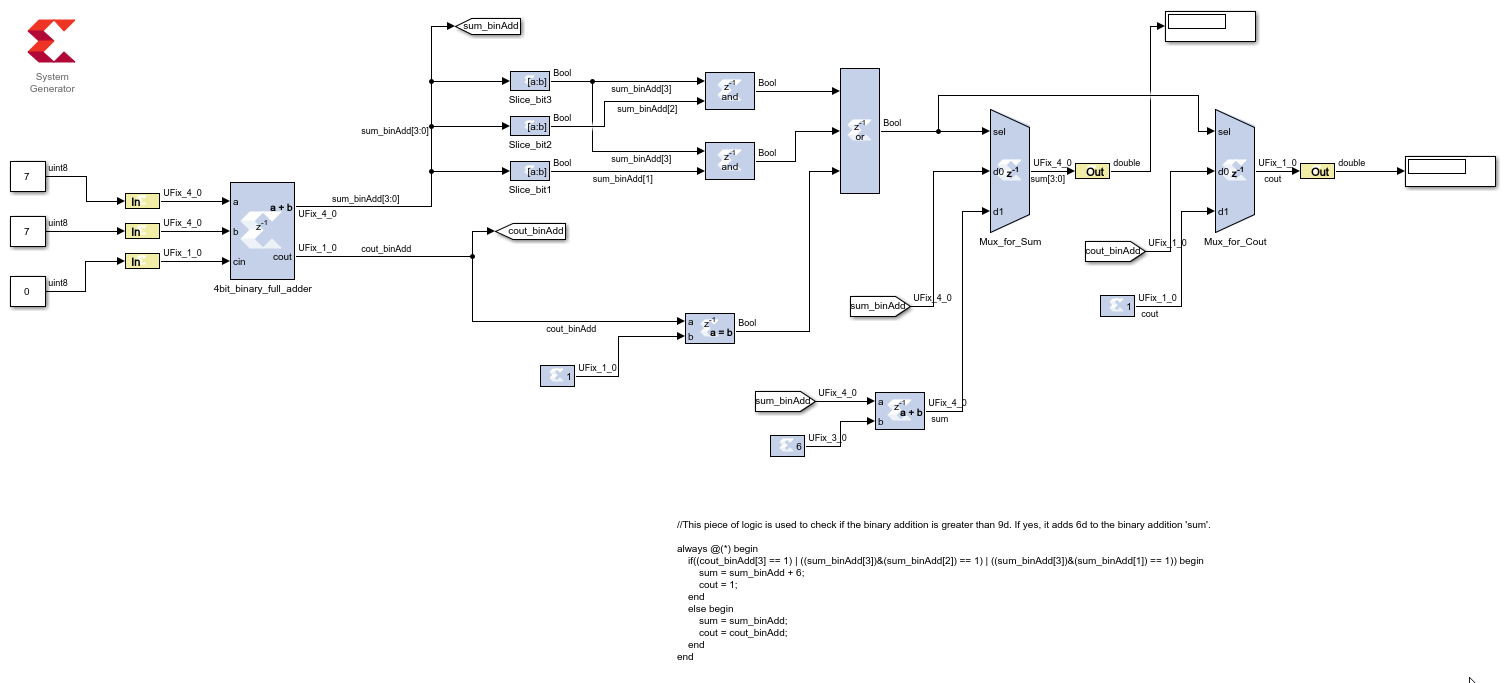
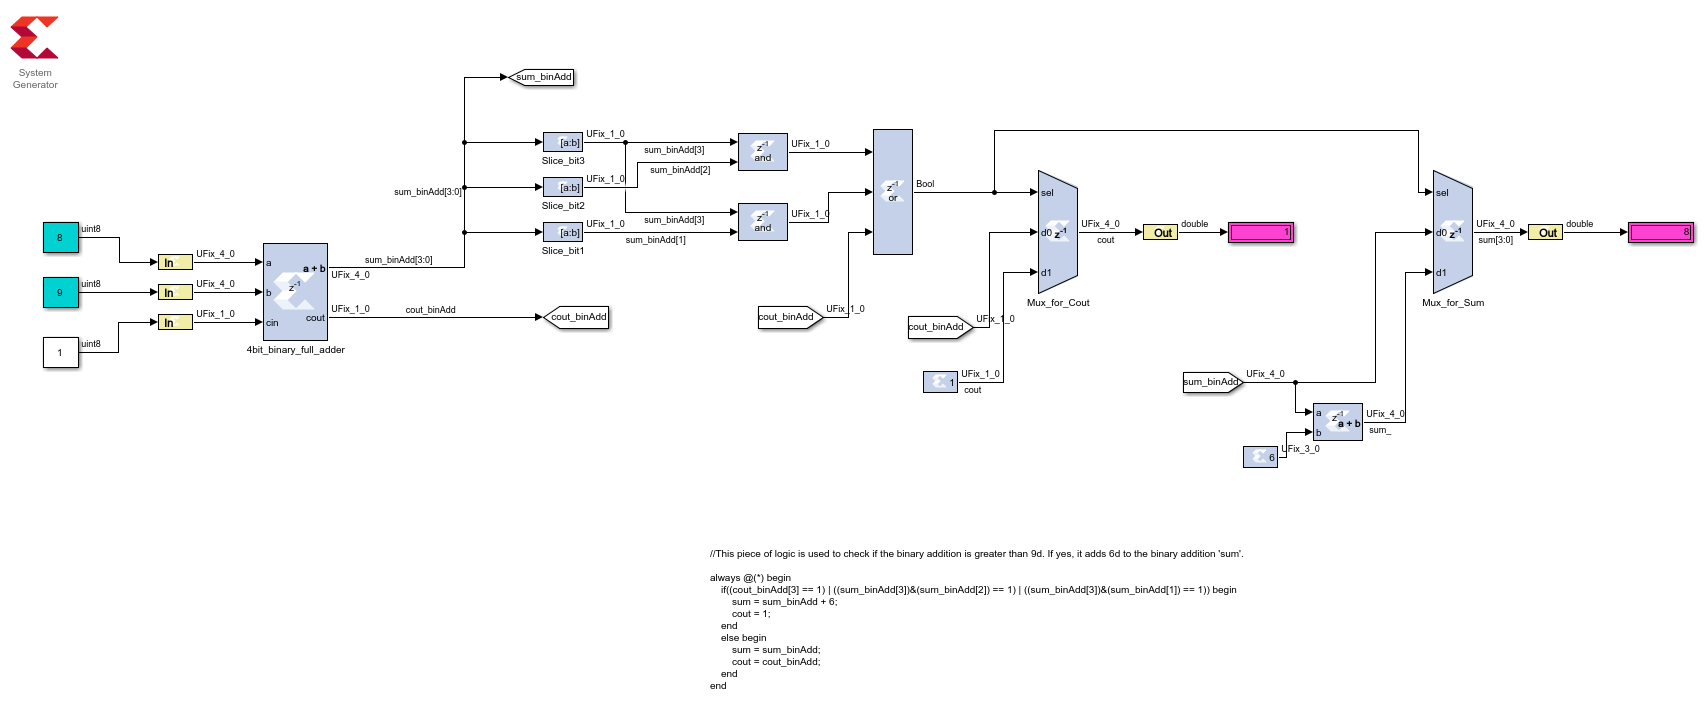
Updated simulink file

diff --git a/bcdadd_1dig/README.md b/bcdadd_1dig/README.md
@@ -30,7 +30,8 @@ Simulation, Compilation and Generation of netlist needs to be verified yet. Afte
    ![](assets/UFix_1_0.png)  
 4. As you can see you can use Goto and From blocks in your XSG design without having to ge through Gateway blocks. This is good!  
 5. Simulink gets to know the rate at which your XSG design to be simulated is via GatewayIn blocks. Specify the 'sample rate' parameter accordingly. Setting the 'Simulink system period' alone in the SysGen token will result in a warning and a default sample rate from the Gateway In blocks will be taken for simulation. Just be careful!  
-6. 
+6. I used lots of display blocks to debug my design in simulink simulation. This helped a lot.  
+7. 
 
 At this point in time, I am still not very comfortable implementing my design in XSG. I find it easier and faster to do this in verilog and simulate it in iVerilog and GTKwave. Perhaps this might change once I get myself little more familiar with XSG and Simulink in general.  
 
